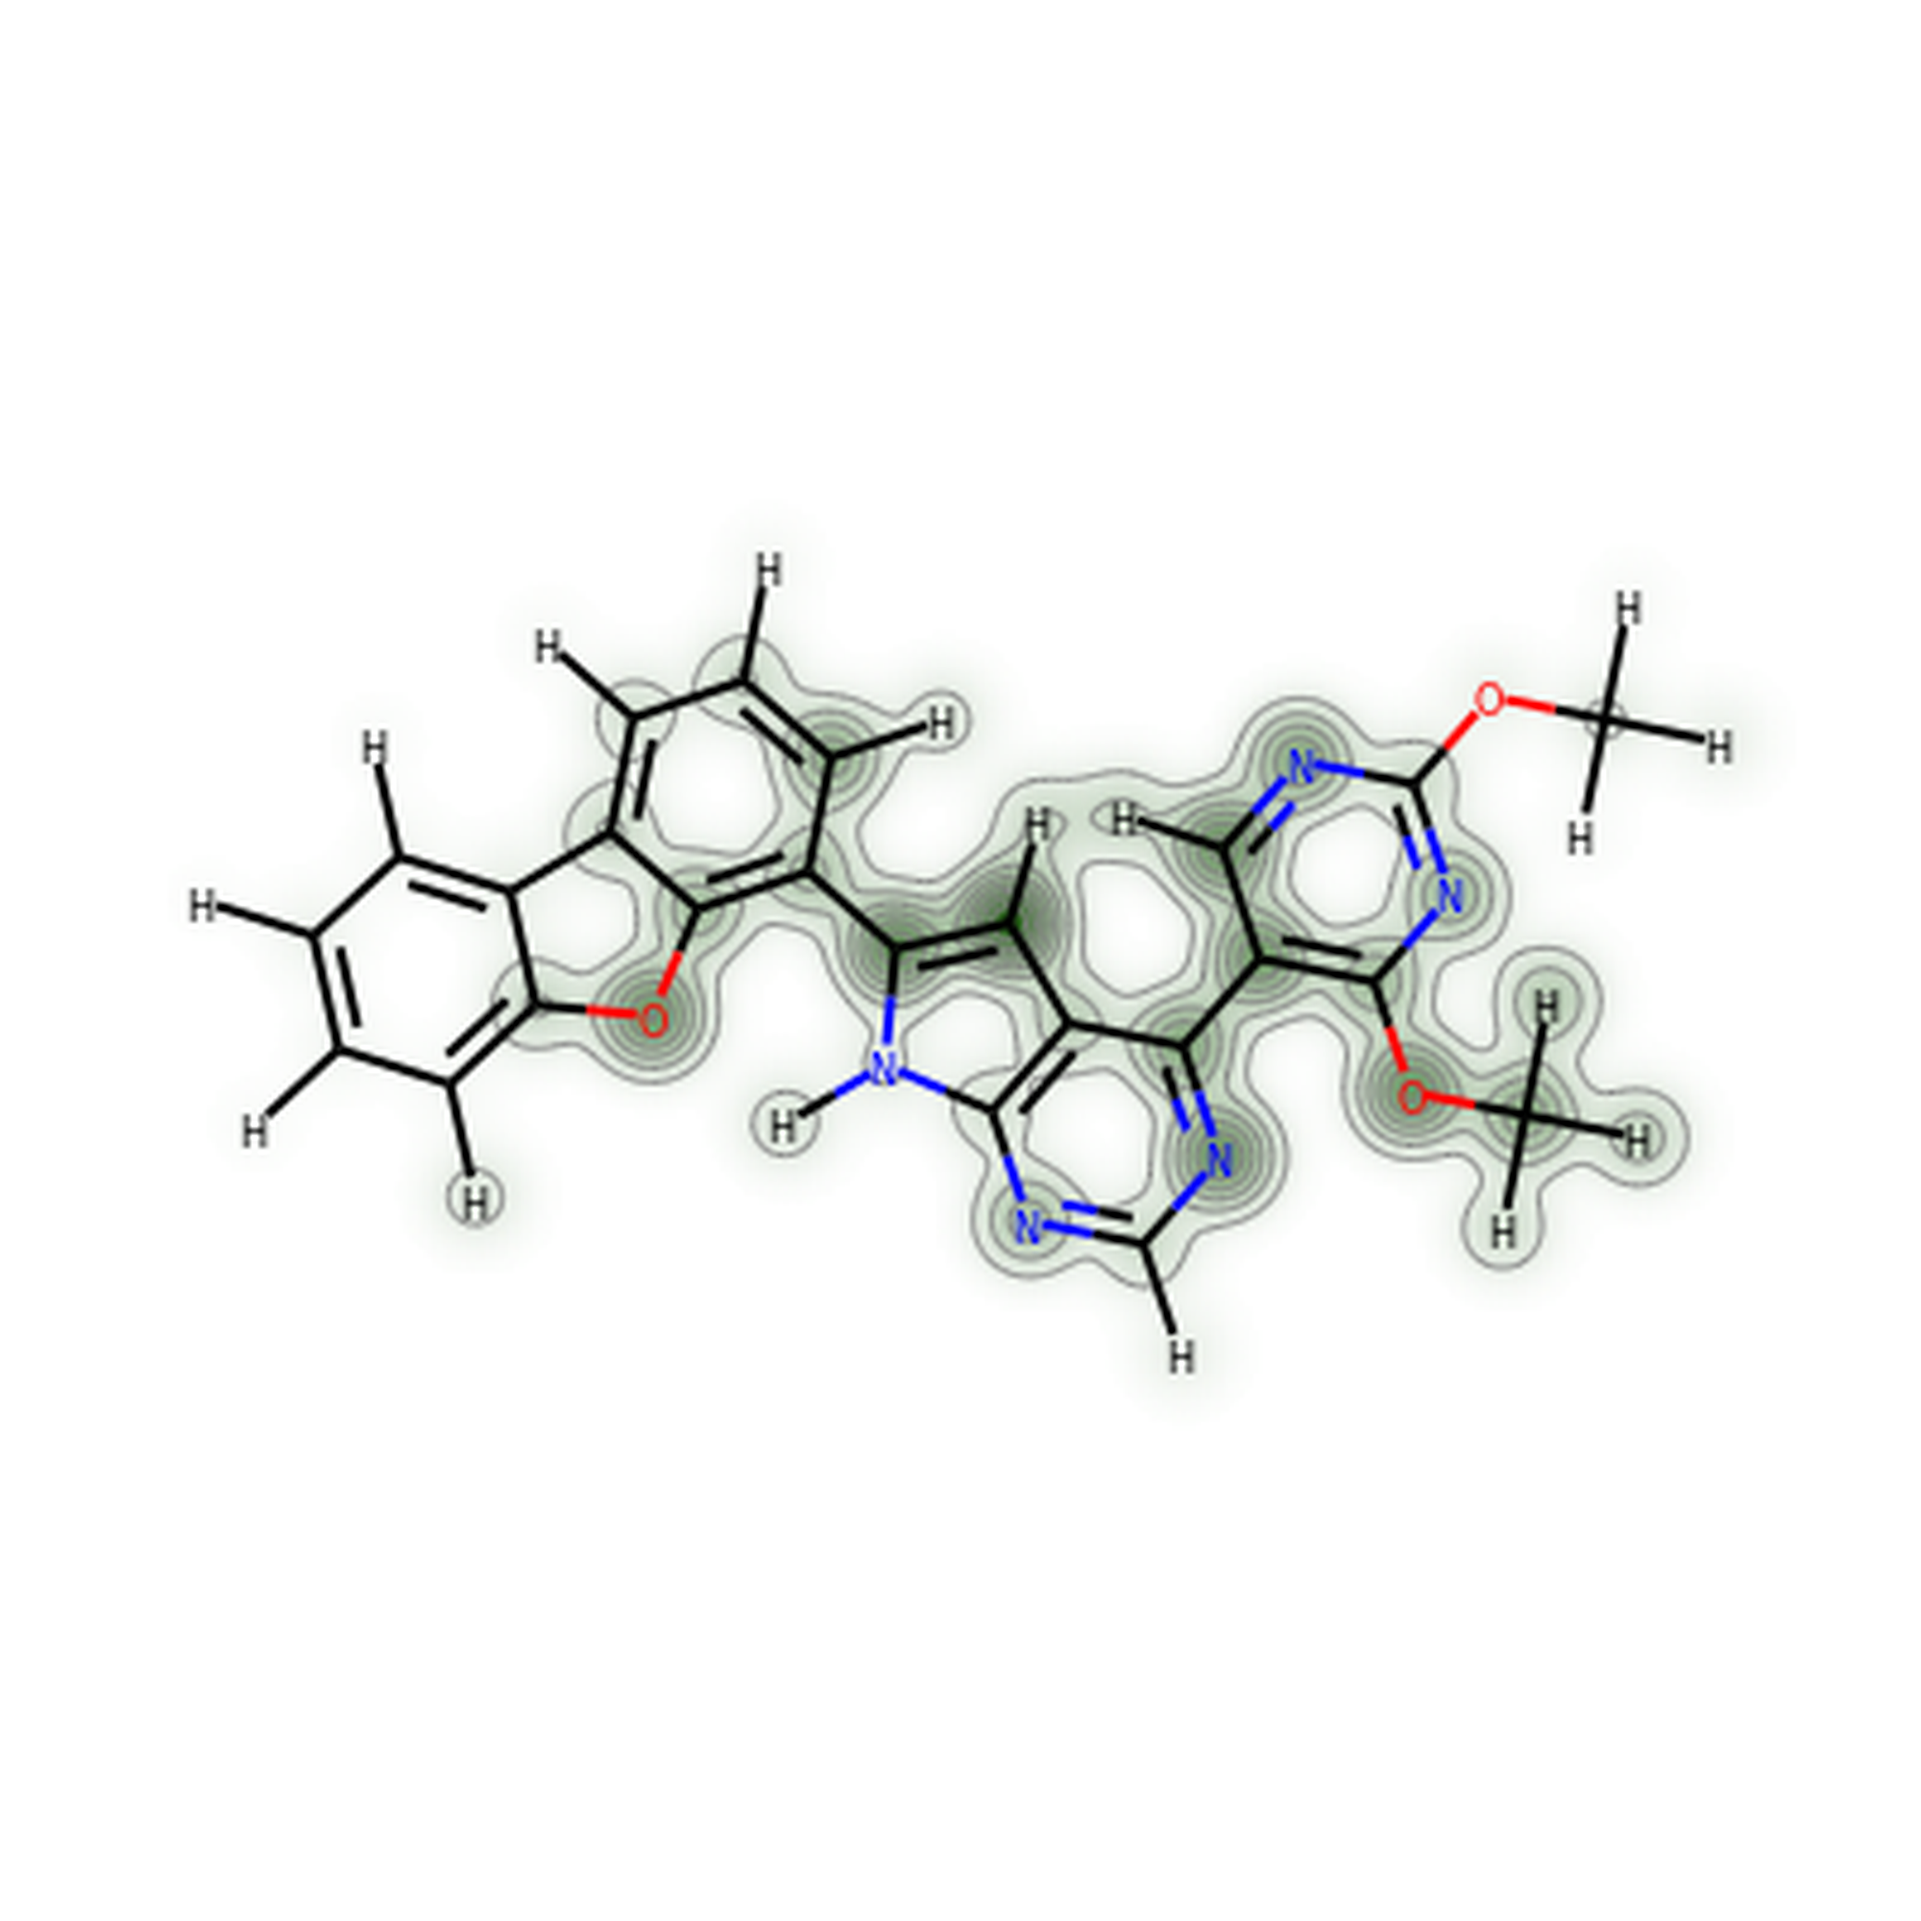
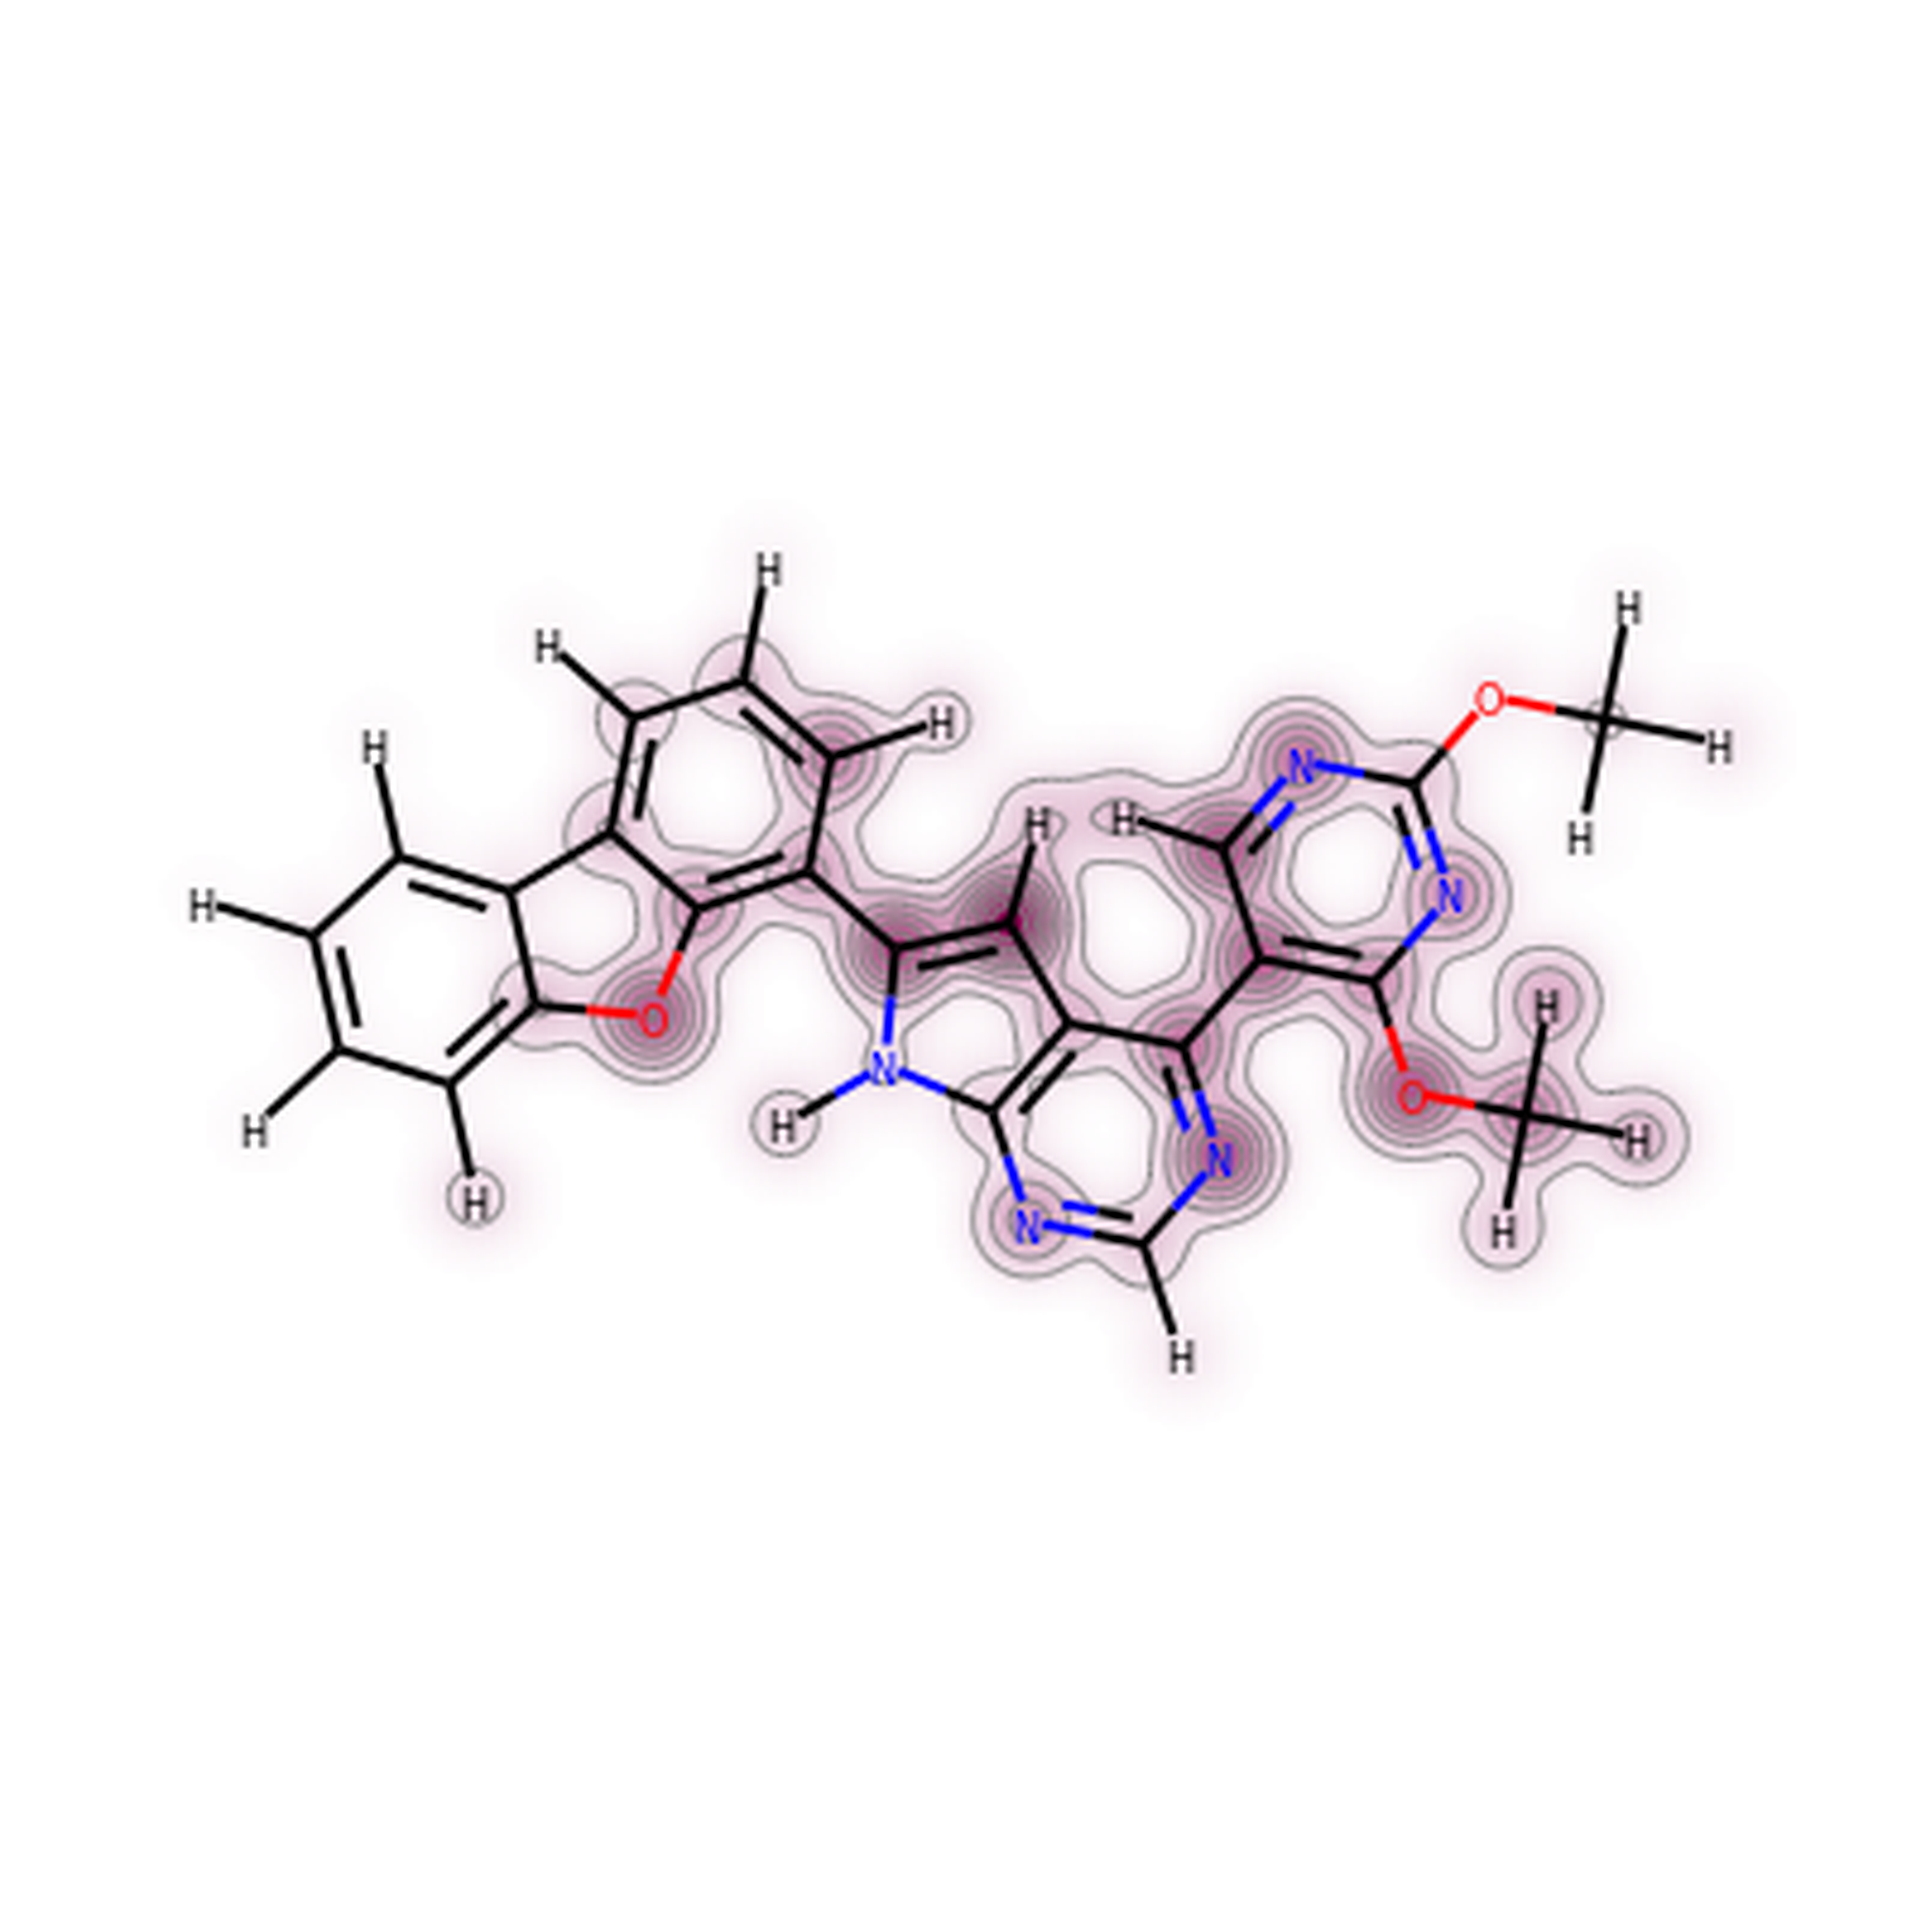
added new tutorial to visualize partial charges

diff --git a/compare_atomic_properties/README.md b/compare_atomic_properties/README.md
@@ -142,10 +142,12 @@ img.save("mean_pose.png")
 
 ```python
 d = Draw.MolDraw2DCairo(400, 400)
-SimilarityMaps.GetSimilarityMapFromWeights(mol1,list(std_pose_charges),draw2d=d)
+SimilarityMaps.GetSimilarityMapFromWeights(mol1,list(-1*std_pose_charges),draw2d=d)
 d.FinishDrawing()
 img = show_png(d.GetDrawingText())
 img.save("std_pose.png")
 ```
 
 ![](std_pose.png)
+
+Notice that in all 100 docking poses, charge differences at the aromatic rings are not noticeable, unlike the two docking pose that we compared before. 
